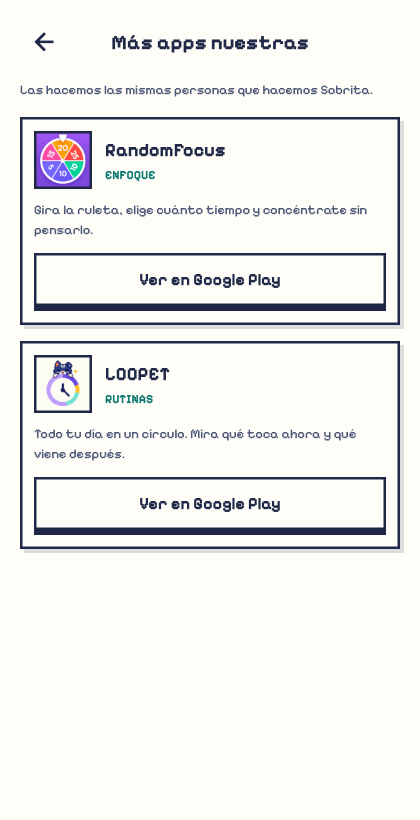
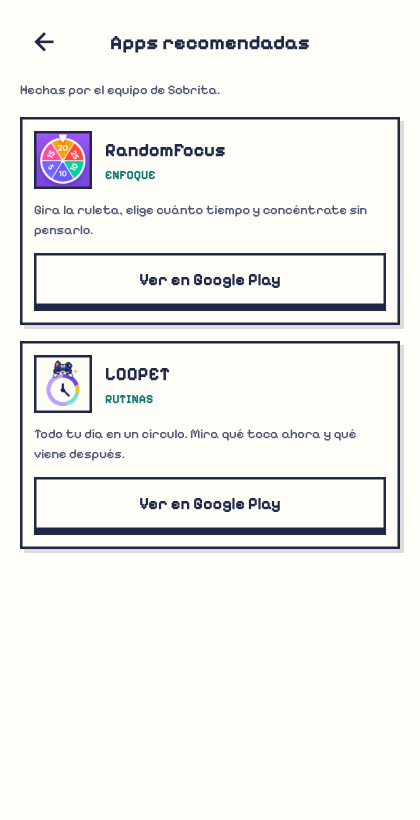
fix: call the other-apps row "Apps recomendadas"
"Más apps nuestras" read as self-promotion before anyone had opened it.
The row and screen title are neutral now, and the intro line inside the
screen still says the Sobrita team made them, so the list does not pass
for a paid placement.

Changed region(s): [[0.0619, 0.0915, 0.8667, 0.122], [0.2476, 0.0305, 0.7429, 0.061]]

diff --git a/test/our_apps_test.dart b/test/our_apps_test.dart
@@ -138,13 +138,13 @@ void main() {
       await openSettings(tester, play: false);
 
       await tester.scrollUntilVisible(find.text('ACERCA DE'), 200);
-      expect(find.text('Más apps nuestras'), findsNothing);
+      expect(find.text('Apps recomendadas'), findsNothing);
     });
 
     testWidgets('leads to the list of apps', (tester) async {
       await openSettings(tester, play: true);
 
-      final row = find.text('Más apps nuestras');
+      final row = find.text('Apps recomendadas');
       await tester.scrollUntilVisible(row, 200);
       await tester.tap(row);
       await tester.pumpAndSettle();
